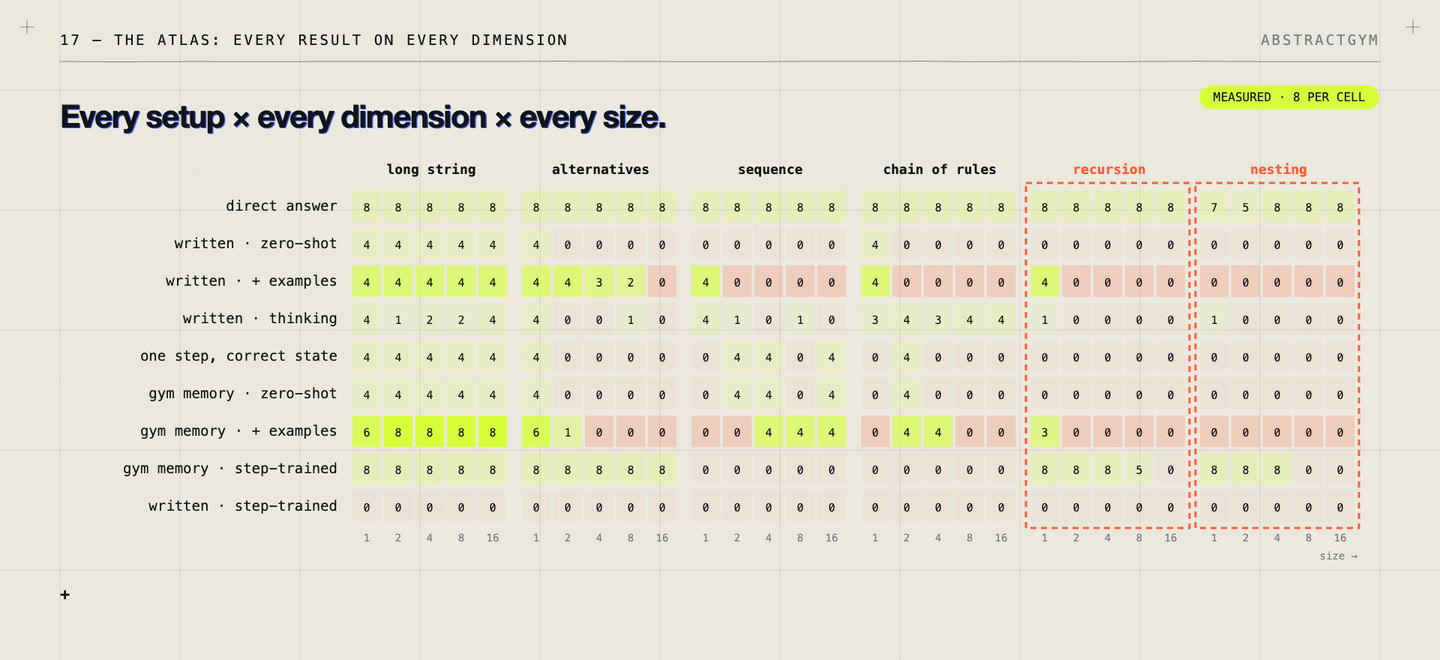
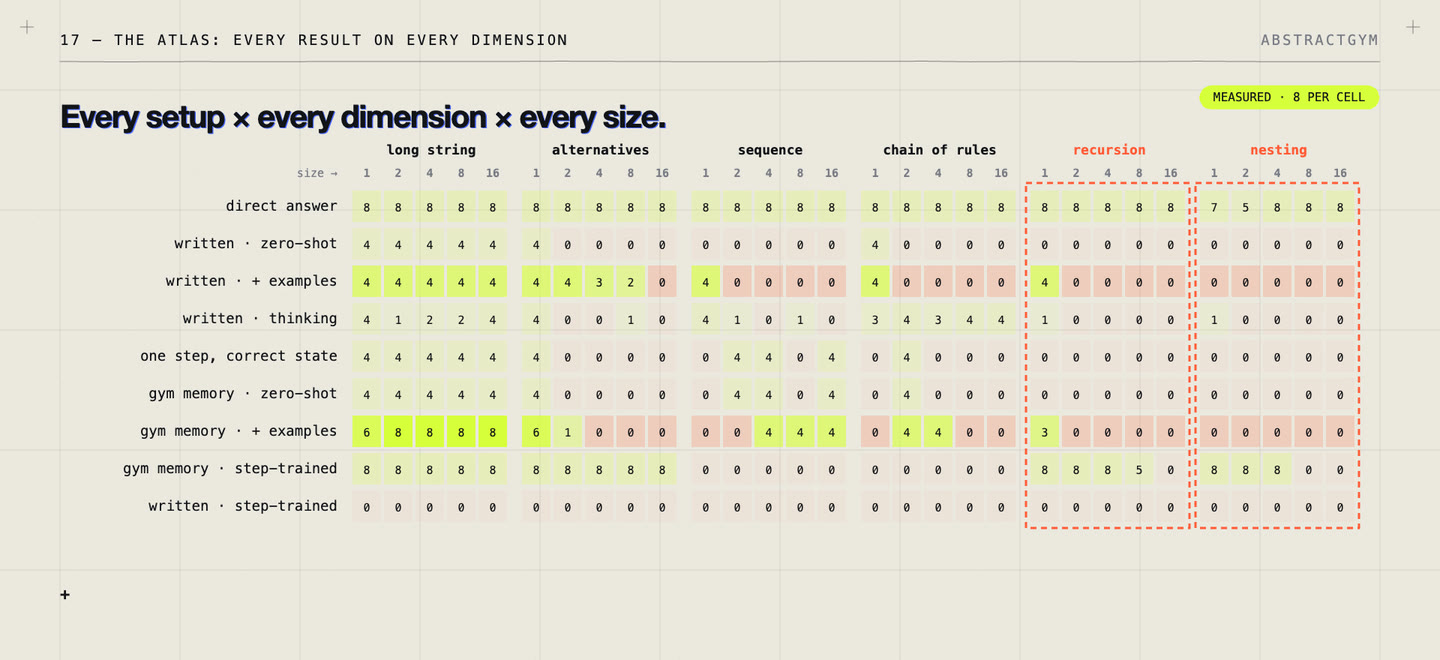
AbstractGym atlas figure: size labels above each block

diff --git a/articles/abstractgym.html b/articles/abstractgym.html
@@ -26,7 +26,7 @@
 
 <h2>13 / Q6: does its own history steer the next step?</h2><p><strong>Null hypothesis.</strong> The model ignores what it has already written; each step is decided fresh.</p><p><strong>Experiment.</strong> Hand the zero-shot 14B model a history containing four planted wrong early moves, and count how many later moves it still gets right.</p><p><strong>Result.</strong> Correct later moves fall from 502 to 214 out of 576.</p><p><strong>Verdict: null falsified.</strong> The written history matters. One caution: a wrong early move really does change the correct continuation, so this does not yet show that errors snowball on their own.</p>
 
-<h2>14 / The complexity atlas: every result on every dimension</h2><p>The 240 puzzles vary along six dimensions, each stressing a different part of running the algorithm.</p><div class="tbl"><table><thead><tr><th>Dimension</th><th>Example grammar</th><th>What it stresses</th></tr></thead><tbody><tr><td>Long string</td><td><code>S → a a a a</code></td><td>Comparing many symbols</td></tr><tr><td>Alternatives</td><td><code>S → b | b b | b b b | a</code></td><td>Trying and pruning many branches</td></tr><tr><td>Sequence</td><td><code>S → A A A A ; A → a</code></td><td>Finishing placeholders in order</td></tr><tr><td>Chain of rules</td><td><code>S → N1 → N2 → N3 → a</code></td><td>Many steps before any character appears</td></tr><tr><td>Recursion</td><td><code>S → a S | c</code></td><td>A rule calling itself again and again</td></tr><tr><td>Nesting</td><td><code>S → a S b | c</code></td><td>Matched pairs: a growing memory</td></tr></tbody></table></div><p>Here is every setup projected onto those dimensions, summed over the five sizes. Each dimension cell is out of 40; Yes and No split the total by the puzzle’s true answer (each out of 120). The figure below shows the full size-by-size map.</p><div class="tbl"><table><thead><tr><th>Setup (Qwen3-14B)</th><th>Long</th><th>Alt.</th><th>Seq.</th><th>Chain</th><th>Rec.</th><th>Nest.</th><th>Total</th><th>Yes</th><th>No</th></tr></thead><tbody><tr><td>Direct answer</td><td class="n">40</td><td class="n">40</td><td class="n">40</td><td class="n">40</td><td class="n">40</td><td class="n">36</td><td class="n">236</td><td class="n">116</td><td class="n">120</td></tr><tr><td>Written · zero-shot</td><td class="n">20</td><td class="n">4</td><td class="n">0</td><td class="n">4</td><td class="n">0</td><td class="n">0</td><td class="n">28</td><td class="n">28</td><td class="n">0</td></tr><tr><td>Written · + examples</td><td class="n">20</td><td class="n">13</td><td class="n">4</td><td class="n">4</td><td class="n">4</td><td class="n">0</td><td class="n">45</td><td class="n">33</td><td class="n">12</td></tr><tr><td>Written · thinking</td><td class="n">13</td><td class="n">5</td><td class="n">6</td><td class="n">18</td><td class="n">1</td><td class="n">1</td><td class="n">44</td><td class="n">42</td><td class="n">2</td></tr><tr><td>One step, correct state</td><td class="n">20</td><td class="n">4</td><td class="n">12</td><td class="n">4</td><td class="n">0</td><td class="n">0</td><td class="n">40</td><td class="n">40</td><td class="n">0</td></tr><tr><td>Gym memory · zero-shot</td><td class="n">20</td><td class="n">4</td><td class="n">12</td><td class="n">4</td><td class="n">0</td><td class="n">0</td><td class="n">40</td><td class="n">40</td><td class="n">0</td></tr><tr><td>Gym memory · + examples</td><td class="n">38</td><td class="n">7</td><td class="n">12</td><td class="n">8</td><td class="n">3</td><td class="n">0</td><td class="n">68</td><td class="n">48</td><td class="n">20</td></tr><tr><td>Gym memory · step-trained</td><td class="n">40</td><td class="n">40</td><td class="n">0</td><td class="n">0</td><td class="n">29</td><td class="n">24</td><td class="n">133</td><td class="n">67</td><td class="n">66</td></tr><tr><td>Written · step-trained</td><td class="n">0</td><td class="n">0</td><td class="n">0</td><td class="n">0</td><td class="n">0</td><td class="n">0</td><td class="n">0</td><td class="n">0</td><td class="n">0</td></tr></tbody></table></div><figure><img src="../assets/ag-atlas.jpg" alt="The atlas: nine setups by six dimensions by five sizes, each cell 0 to 8" width="1440" height="660" loading="lazy"><figcaption>The full atlas: one row per setup, one block per dimension. Within a block the five cells are sizes 1, 2, 4, 8 and 16, left to right; each cell counts how many of its 8 puzzles (4 yes, 4 no) were solved.</figcaption></figure><p><strong>Direct answers are right almost everywhere, at every size.</strong> Only four small nesting puzzles slip, all of them yes-puzzles (116 yes, 120 no). Size doesn’t hurt it, but see the caveat in Q1: in this suite a single letter gives the answer away.</p><p><strong>Every zero-shot success is a “yes”.</strong> The written algorithm works only on long strings and a handful of small cases, and all 28 of its successes are yes-puzzles, as are all 40 gym-memory successes. To say no, the search has to try every branch and close each one with DONE, and the zero-shot model almost never does. That is why so many cells sit at exactly 4 of 8, and why the No column reads 0 for every zero-shot execution row. Thinking adds only 2 no-puzzles.</p><p><strong>Examples spread success a little.</strong> With examples and gym memory, success reaches sequences and chains, and 20 no-puzzles pass. Recursion and nesting, the dimensions that need deep bookkeeping, stay near zero.</p><p><strong>Step training splits the map cleanly.</strong> Long strings and alternatives become perfect at every size. Recursion and nesting are perfect up to size 4, the deepest the training data went, then fade. Sequences and chains, which the training data didn’t contain, stay at zero. The learned step works where training reached, and stops at its edge (one seed). It is also the first setup that says no as often as yes (67 and 66): training taught it to close exhausted branches.</p><p><strong>Thinking helps a different dimension.</strong> It is the only setup that gets about half of the chain-of-rules puzzles at every size, but it does worse on long strings than plain instructions (13 against 20).</p><h3>The bracket atlas</h3><p>The bracket task has two dimensions of its own: depth, and which symbols are used.</p><figure><img src="../assets/ag-brackets.jpg" alt="Bracket atlas: depth by letters and bracket symbols for zero-shot, LoRA and LoRA with legal moves" width="1440" height="660" loading="lazy"><figcaption>Bracket runs by depth (0, 1, 2, 3, 4, 8, 16) with letters or bracket symbols.</figcaption></figure><div class="tbl"><table><thead><tr><th>Setup</th><th>Letters, depth 0 → 16</th><th>Bracket symbols, depth 0 → 16</th></tr></thead><tbody><tr><td>Qwen3-14B zero-shot</td><td class="n">2/2 4/4 4/8 5/8 5/8 5/8 4/8</td><td class="n">2/2 2/4 2/8 2/8 2/8 2/8 2/8</td></tr><tr><td>+ LoRA on the step</td><td class="n">all correct</td><td class="n">2/2 2/4 2/8 2/8 2/8 2/8 2/8</td></tr><tr><td>+ LoRA, legal moves only</td><td class="n">all correct</td><td class="n">2/2 4/4 7/8 7/8 6/8 5/8 5/8</td></tr><tr><td>Tiny model (roles)</td><td class="n">all correct</td><td class="n">all correct</td></tr></tbody></table></div><p><strong>What the map says.</strong> Size alone is not the enemy. The model breaks on specific operations: saying no after an exhaustive search, keeping track of nested or chained structure, and binding unfamiliar symbols. Training fixes the dimensions and sizes it covers, not beyond. That last sentence is my interpretation of the measured pattern, not a theorem.</p>
+<h2>14 / The complexity atlas: every result on every dimension</h2><p>The 240 puzzles vary along six dimensions, each stressing a different part of running the algorithm.</p><div class="tbl"><table><thead><tr><th>Dimension</th><th>Example grammar</th><th>What it stresses</th></tr></thead><tbody><tr><td>Long string</td><td><code>S → a a a a</code></td><td>Comparing many symbols</td></tr><tr><td>Alternatives</td><td><code>S → b | b b | b b b | a</code></td><td>Trying and pruning many branches</td></tr><tr><td>Sequence</td><td><code>S → A A A A ; A → a</code></td><td>Finishing placeholders in order</td></tr><tr><td>Chain of rules</td><td><code>S → N1 → N2 → N3 → a</code></td><td>Many steps before any character appears</td></tr><tr><td>Recursion</td><td><code>S → a S | c</code></td><td>A rule calling itself again and again</td></tr><tr><td>Nesting</td><td><code>S → a S b | c</code></td><td>Matched pairs: a growing memory</td></tr></tbody></table></div><p>Here is every setup projected onto those dimensions, summed over the five sizes. Each dimension cell is out of 40; Yes and No split the total by the puzzle’s true answer (each out of 120). The figure below shows the full size-by-size map.</p><div class="tbl"><table><thead><tr><th>Setup (Qwen3-14B)</th><th>Long</th><th>Alt.</th><th>Seq.</th><th>Chain</th><th>Rec.</th><th>Nest.</th><th>Total</th><th>Yes</th><th>No</th></tr></thead><tbody><tr><td>Direct answer</td><td class="n">40</td><td class="n">40</td><td class="n">40</td><td class="n">40</td><td class="n">40</td><td class="n">36</td><td class="n">236</td><td class="n">116</td><td class="n">120</td></tr><tr><td>Written · zero-shot</td><td class="n">20</td><td class="n">4</td><td class="n">0</td><td class="n">4</td><td class="n">0</td><td class="n">0</td><td class="n">28</td><td class="n">28</td><td class="n">0</td></tr><tr><td>Written · + examples</td><td class="n">20</td><td class="n">13</td><td class="n">4</td><td class="n">4</td><td class="n">4</td><td class="n">0</td><td class="n">45</td><td class="n">33</td><td class="n">12</td></tr><tr><td>Written · thinking</td><td class="n">13</td><td class="n">5</td><td class="n">6</td><td class="n">18</td><td class="n">1</td><td class="n">1</td><td class="n">44</td><td class="n">42</td><td class="n">2</td></tr><tr><td>One step, correct state</td><td class="n">20</td><td class="n">4</td><td class="n">12</td><td class="n">4</td><td class="n">0</td><td class="n">0</td><td class="n">40</td><td class="n">40</td><td class="n">0</td></tr><tr><td>Gym memory · zero-shot</td><td class="n">20</td><td class="n">4</td><td class="n">12</td><td class="n">4</td><td class="n">0</td><td class="n">0</td><td class="n">40</td><td class="n">40</td><td class="n">0</td></tr><tr><td>Gym memory · + examples</td><td class="n">38</td><td class="n">7</td><td class="n">12</td><td class="n">8</td><td class="n">3</td><td class="n">0</td><td class="n">68</td><td class="n">48</td><td class="n">20</td></tr><tr><td>Gym memory · step-trained</td><td class="n">40</td><td class="n">40</td><td class="n">0</td><td class="n">0</td><td class="n">29</td><td class="n">24</td><td class="n">133</td><td class="n">67</td><td class="n">66</td></tr><tr><td>Written · step-trained</td><td class="n">0</td><td class="n">0</td><td class="n">0</td><td class="n">0</td><td class="n">0</td><td class="n">0</td><td class="n">0</td><td class="n">0</td><td class="n">0</td></tr></tbody></table></div><figure><img src="../assets/ag-atlas.jpg?v=2" alt="The atlas: nine setups by six dimensions by five sizes, each cell 0 to 8" width="1440" height="660" loading="lazy"><figcaption>The full atlas: one row per setup, one block per dimension. Within a block the five columns are sizes 1, 2, 4, 8 and 16, labelled above; each cell counts how many of its 8 puzzles (4 yes, 4 no) were solved.</figcaption></figure><p><strong>Direct answers are right almost everywhere, at every size.</strong> Only four small nesting puzzles slip, all of them yes-puzzles (116 yes, 120 no). Size doesn’t hurt it, but see the caveat in Q1: in this suite a single letter gives the answer away.</p><p><strong>Every zero-shot success is a “yes”.</strong> The written algorithm works only on long strings and a handful of small cases, and all 28 of its successes are yes-puzzles, as are all 40 gym-memory successes. To say no, the search has to try every branch and close each one with DONE, and the zero-shot model almost never does. That is why so many cells sit at exactly 4 of 8, and why the No column reads 0 for every zero-shot execution row. Thinking adds only 2 no-puzzles.</p><p><strong>Examples spread success a little.</strong> With examples and gym memory, success reaches sequences and chains, and 20 no-puzzles pass. Recursion and nesting, the dimensions that need deep bookkeeping, stay near zero.</p><p><strong>Step training splits the map cleanly.</strong> Long strings and alternatives become perfect at every size. Recursion and nesting are perfect up to size 4, the deepest the training data went, then fade. Sequences and chains, which the training data didn’t contain, stay at zero. The learned step works where training reached, and stops at its edge (one seed). It is also the first setup that says no as often as yes (67 and 66): training taught it to close exhausted branches.</p><p><strong>Thinking helps a different dimension.</strong> It is the only setup that gets about half of the chain-of-rules puzzles at every size, but it does worse on long strings than plain instructions (13 against 20).</p><h3>The bracket atlas</h3><p>The bracket task has two dimensions of its own: depth, and which symbols are used.</p><figure><img src="../assets/ag-brackets.jpg" alt="Bracket atlas: depth by letters and bracket symbols for zero-shot, LoRA and LoRA with legal moves" width="1440" height="660" loading="lazy"><figcaption>Bracket runs by depth (0, 1, 2, 3, 4, 8, 16) with letters or bracket symbols.</figcaption></figure><div class="tbl"><table><thead><tr><th>Setup</th><th>Letters, depth 0 → 16</th><th>Bracket symbols, depth 0 → 16</th></tr></thead><tbody><tr><td>Qwen3-14B zero-shot</td><td class="n">2/2 4/4 4/8 5/8 5/8 5/8 4/8</td><td class="n">2/2 2/4 2/8 2/8 2/8 2/8 2/8</td></tr><tr><td>+ LoRA on the step</td><td class="n">all correct</td><td class="n">2/2 2/4 2/8 2/8 2/8 2/8 2/8</td></tr><tr><td>+ LoRA, legal moves only</td><td class="n">all correct</td><td class="n">2/2 4/4 7/8 7/8 6/8 5/8 5/8</td></tr><tr><td>Tiny model (roles)</td><td class="n">all correct</td><td class="n">all correct</td></tr></tbody></table></div><p><strong>What the map says.</strong> Size alone is not the enemy. The model breaks on specific operations: saying no after an exhaustive search, keeping track of nested or chained structure, and binding unfamiliar symbols. Training fixes the dimensions and sizes it covers, not beyond. That last sentence is my interpretation of the measured pattern, not a theorem.</p>
 
 <h2>15 / Follow-up: richer supervision and distillation (A7)</h2><p>After the film, I ran a small adaptation of <a href="https://arxiv.org/abs/2609.30936">Self-Play Search Distillation</a> (Molfetta et al., 2026), which trains a model on the decision found by search rather than on the search itself. The question: do verified successor states or short alternative-branch traces teach a more reliable step than action labels alone? Six Qwen3-14B arms cross three kinds of supervision (next action; action + successor state; action + short branch consequences) with two objectives (supervised fine-tuning; on-policy distillation from a frozen teacher that sees the verified answer). An untrained control tests a much larger thinking budget. All arms share 512 starting states, one epoch and 128 updates. It is a one-seed pilot, not a reproduction of the paper.</p><div class="tbl"><table><thead><tr><th>Condition</th><th>Full trace / 240</th><th>Gym memory / 240</th><th>Gym memory, shifted / 192</th><th>Direct / 240</th></tr></thead><tbody><tr><td>Base</td><td class="n">28</td><td class="n">38</td><td class="n">16</td><td class="n">236</td></tr><tr><td>Action, SFT</td><td class="n">43</td><td class="n">77</td><td class="n">44</td><td class="n">236</td></tr><tr><td>Successor, SFT</td><td class="n">7</td><td class="n">76</td><td class="n">51</td><td class="n">236</td></tr><tr><td>Branches, SFT</td><td class="n">8</td><td class="n">79</td><td class="n">50</td><td class="n">238</td></tr><tr><td>Action, distillation</td><td class="n">33</td><td class="n">34</td><td class="n">13</td><td class="n">236</td></tr><tr><td>Successor, distillation</td><td class="n">36</td><td class="n">34</td><td class="n">12</td><td class="n">236</td></tr><tr><td>Branches, distillation</td><td class="n">39</td><td class="n">39</td><td class="n">16</td><td class="n">237</td></tr><tr><td>Thinking, large budget</td><td class="n">64</td><td class="n">37</td><td class="n">18</td><td class="n">238</td></tr></tbody></table></div><p>The shifted suite changes depth (levels 3, 6, 12, 24) and renames every symbol at once. What the pilot shows:</p><ul><li><strong>Action-only SFT roughly doubles live execution</strong>: 38 → 77 of 240, and 16 → 44 of 192 on the shifted suite.</li><li><strong>Richer targets add little</strong>: −1 to +2 cases on the original suite, +6 to +7 on the shifted one, concentrated in the alternatives family. Shifted nesting, chains and sequences stay at zero for every SFT arm.</li><li><strong>Better steps can hurt full traces</strong>: the successor and branch arms fall to 7 and 8 of 240 written runs, mostly incomplete traces. Single-step skill does not transfer to emitting a whole execution.</li><li><strong>Distillation, in this recipe, stays near base</strong> (34–39 of 240 live). That is a negative result for a frozen-teacher, one-epoch setup, not evidence against SPSD in general.</li><li><strong>A bigger thinking budget lifts written traces</strong> from 28 to 64 of 240, but not live execution (38 → 37), at about 150× the completion tokens, and 49 calls still ran out of room.</li></ul>
 
